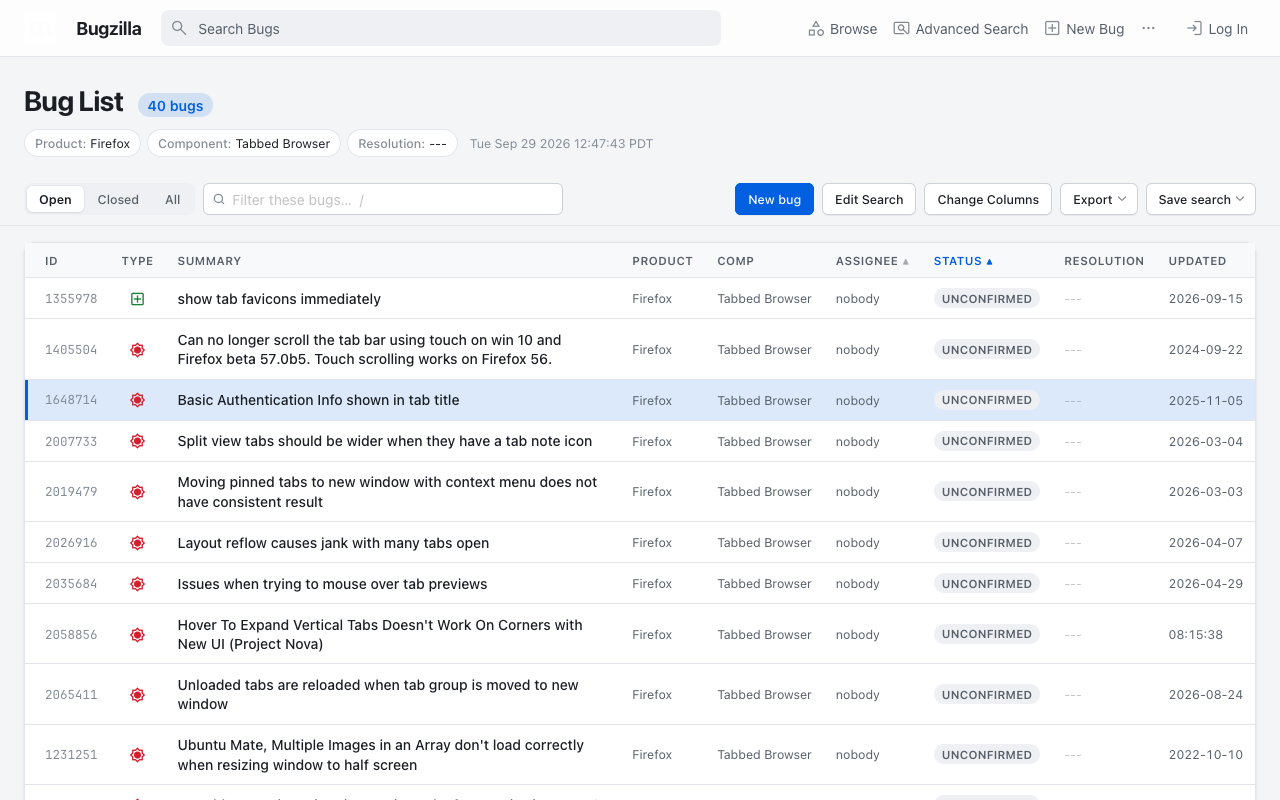
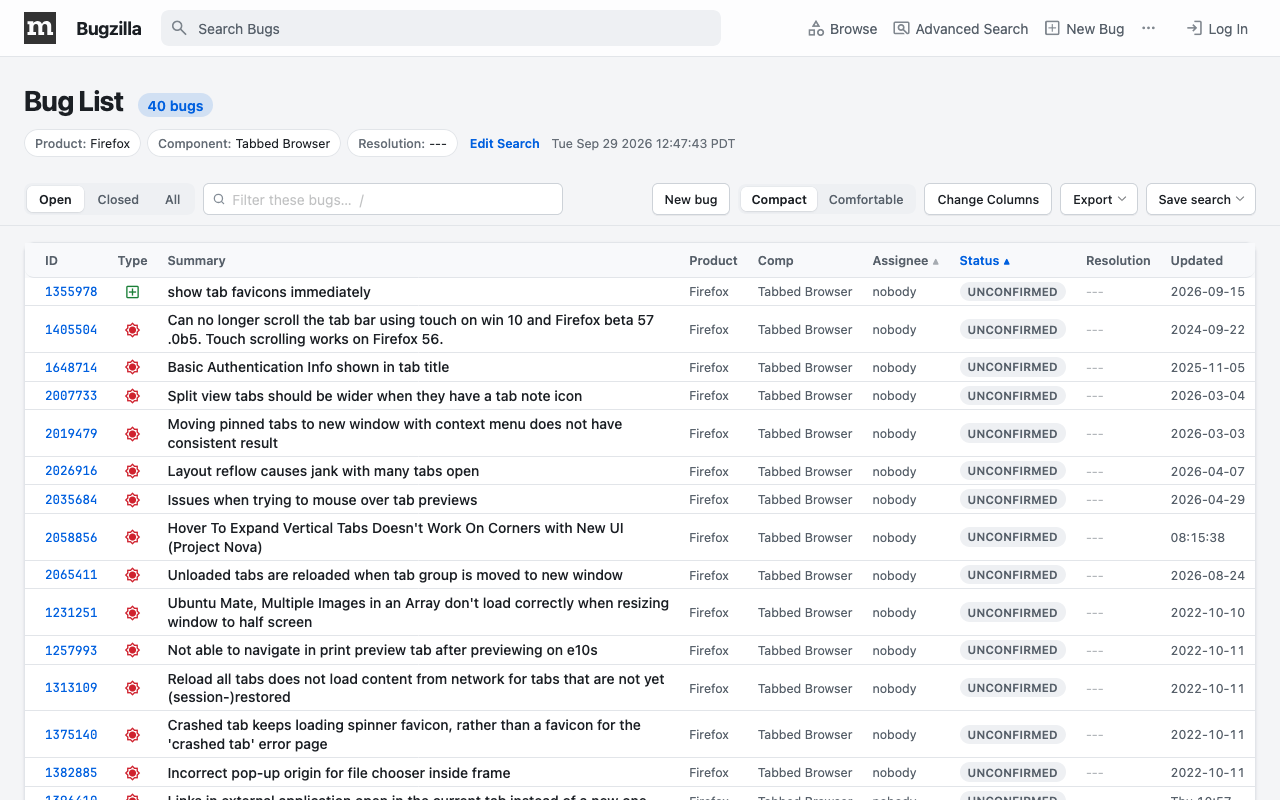
Rework the bug list around triage: density, shareable filter, bulk edit
Following the review's proposal for the people who live in bug lists:
- Edit Search sits with the search terms it changes.
- Compact/Comfortable row density, remembered in extension storage;
  compact fits about 40% more bugs on screen.
- The filter is kept in the URL (#pb-filter=...), so a filtered list can
  be reloaded or shared; it's debounced for very long lists.
- S1 and S2 rows get a severity stripe.
- Change Several Bugs mode gets a sticky selection bar (count, how many
  are hidden by the filter, Select visible, Clear, Edit selected), shift-
  click ranges and x to toggle the focused row.

tools/extras/buglist-tweak.js mocks tweak mode from BMO's templates and
is covered by npm test.

diff --git a/content/layouts/buglist.js b/content/layouts/buglist.js
@@ -23,7 +23,7 @@
 
   function buildHeader(main, table, changes) {
     const head = $(".bz_query_head", main);
-    const resultCount = $(":scope > span.bz_result_count", main);
+    const resultCount = $("span.bz_result_count", main);
     // Without an explicit limit BMO caps results (500) and offers the only link to the rest here.
     const seeAll = resultCount?.querySelector('a[href*="limit=0"]');
     const count = resultCount?.textContent.match(/\d[\d,]*/)?.[0];
@@ -45,8 +45,14 @@
         h("a", { href: seeAll.href, text: "Show all results" })));
     }
 
+    // The search terms and the link to change them belong together.
     const description = $("ul.search_description", main);
     if (description?.children.length) changes.move(description, meta);
+    const edit = $("#edit-search", main);
+    if (edit) {
+      changes.move(edit, meta);
+      changes.addClass(edit, "pb-buglist-edit");
+    }
     const timestamp = $(".bz_query_timestamp", head ?? main);
     if (timestamp) changes.move(timestamp, meta);
     const quip = $(".bz_quip", head ?? main);
@@ -81,7 +87,6 @@
     }
 
     const links = $("td.bz_query_links", main);
-    const edit = $("#edit-search", main);
     const columns = links && $$('a[href*="colchange.cgi"]', links)[0];
     const several = $("#change-several", main);
     const newBug = $("p.bz_query_single_product a", main);
@@ -90,10 +95,10 @@
       end.append(h("a", { class: "pb-tool", href: newBug.href, text: "New bug", title: newBug.textContent.trim() }));
       changes.addClass(newBug.parentElement, "pb-hidden");
     }
-    if (edit) changes.move(edit, end);
+    if (table) end.append(densityToggle(table, changes));
     if (columns) changes.move(columns, end);
     if (several) changes.move(several, end);
-    for (const link of [edit, columns, several]) {
+    for (const link of [columns, several]) {
       if (link) changes.addClass(link, "pb-tool");
     }
 
@@ -145,13 +150,40 @@
     return filterInput;
   }
 
+  // Compact rows fit ~40% more bugs on screen; the choice is remembered across lists.
+  function densityToggle(table, changes) {
+    const group = h("div", { class: "pb-density", role: "group", "aria-label": "Row density" });
+    const buttons = ["compact", "comfortable"].map((value) => {
+      const button = h("button", { type: "button", class: "pb-density-option", "aria-pressed": "false", text: value === "compact" ? "Compact" : "Comfortable" });
+      button.addEventListener("click", () => {
+        set(value);
+        browser.storage.local.set({ buglistDensity: value });
+      });
+      group.append(button);
+      return [value, button];
+    });
+    const set = (value) => {
+      table.setAttribute("data-pb-density", value);
+      for (const [option, button] of buttons) button.setAttribute("aria-pressed", String(option === value));
+    };
+    changes.attr(table, "data-pb-density", "compact");
+    set("compact");
+    browser.storage.local.get({ buglistDensity: "compact" }).then(({ buglistDensity }) => {
+      if (group.isConnected) set(buglistDensity);
+    }, () => {});
+    return group;
+  }
+
   // Cells show abbreviations ("UNCO") or only icons (bug type); the full words live in title/aria-label.
   function searchText(row) {
     const labels = $$("[title], [aria-label]", row).map((node) => `${node.title} ${node.getAttribute("aria-label") ?? ""}`);
     return `${row.textContent} ${labels.join(" ")}`.replace(/\s+/g, " ").toLowerCase();
   }
 
-  function wireFilter(table, input, changes) {
+  // The filter is kept in the URL (#pb-filter=…) so a filtered list can be shared or reloaded.
+  const HASH = "pb-filter=";
+
+  function wireFilter(table, input, onApply, changes) {
     const rows = $$("tbody tr.bz_bugitem", table);
     const texts = new Map(rows.map((row) => [row, searchText(row)]));
     const counter = input.nextElementSibling;
@@ -173,18 +205,43 @@
       const hidden = form ? hiddenChecked() : 0;
       counter.textContent = [terms.length ? `${shown} of ${rows.length}` : "", hidden ? `${hidden} checked hidden` : ""].filter(Boolean).join(" · ");
       empty.hidden = !(terms.length > 0 && shown === 0);
+      onApply();
     };
 
-    let frame = 0;
+    const originalHash = location.hash;
+    // An absolute URL: relative ones resolve against <base>, which needn't be this origin.
+    const setHash = (hash) => {
+      const url = new URL(location.href);
+      url.hash = hash;
+      if (url.href !== location.href) history.replaceState(history.state, "", url.href);
+    };
+    const saveHash = () => {
+      const value = input.value.trim();
+      setHash(value ? `${HASH}${encodeURIComponent(value)}` : originalHash.startsWith(`#${HASH}`) ? "" : originalHash);
+    };
+    if (originalHash.startsWith(`#${HASH}`)) {
+      try {
+        input.value = decodeURIComponent(originalHash.slice(HASH.length + 1));
+      } catch {
+        // Malformed; start unfiltered.
+      }
+    }
+
+    // Debounced: on lists of thousands of rows, filtering on every keystroke would lag typing.
+    let timer = 0;
     changes.listen(input, "input", () => {
-      cancelAnimationFrame(frame);
-      frame = requestAnimationFrame(apply);
+      clearTimeout(timer);
+      timer = setTimeout(() => {
+        apply();
+        saveHash();
+      }, rows.length > 500 ? 120 : 30);
     });
     changes.listen(input, "keydown", (event) => {
       if (event.key === "Enter") event.preventDefault();
       if (event.key === "Escape") {
         input.value = "";
         apply();
+        saveHash();
         input.blur();
       }
     });
@@ -198,9 +255,75 @@
       });
     }
     changes.defer(() => {
-      cancelAnimationFrame(frame);
+      clearTimeout(timer);
       for (const row of rows) row.hidden = false;
+      setHash(originalHash);
     });
+    if (input.value) apply();
+  }
+
+  // "Change Several Bugs": a sticky bar with the selection count (and how many the filter hides),
+  // Select visible / Clear, a jump to BMO's edit form, shift-click ranges and x to toggle a row.
+  function wireTweak(table, changes) {
+    const form = table.closest("form[name=changeform]");
+    const boxes = $$('tbody tr.bz_bugitem input[type=checkbox][name^="id_"]', table);
+    if (!form || !boxes.length) return () => {};
+
+    const status = h("span", { class: "pb-tweak-status", "aria-live": "polite" });
+    const setAll = (checked) => {
+      for (const box of boxes) {
+        if (!box.closest("tr").hidden) box.checked = checked;
+      }
+      update();
+    };
+    const editForm = form.querySelector("#form") ?? form.querySelector("#commit");
+    const bar = h("div", { class: "pb-tweak-bar", role: "group", "aria-label": "Selected bugs" },
+      status,
+      h("button", { type: "button", class: "secondary", text: "Select visible", onclick: () => setAll(true) }),
+      h("button", { type: "button", class: "secondary", text: "Clear", onclick: () => setAll(false) }),
+      editForm ? h("button", { type: "button", class: "primary", text: "Edit selected ↓", onclick: () => {
+        editForm.scrollIntoView({ block: "start" });
+        editForm.querySelector("select, input:not([type=hidden]), textarea")?.focus({ preventScroll: true });
+      } }) : null);
+    changes.insert(bar, table.parentNode, table.nextSibling);
+
+    function update() {
+      const checked = boxes.filter((box) => box.checked);
+      const hidden = checked.filter((box) => box.closest("tr").hidden).length;
+      status.textContent = `${checked.length} selected${hidden ? ` (${hidden} hidden by the filter)` : ""}`;
+      bar.dataset.empty = String(checked.length === 0);
+    }
+
+    let last = null;
+    changes.listen(table, "click", (event) => {
+      const box = event.target.closest?.('input[type=checkbox][name^="id_"]');
+      if (!box) return;
+      if (event.shiftKey && last && last !== box) {
+        const [from, to] = [boxes.indexOf(last), boxes.indexOf(box)].sort((a, b) => a - b);
+        for (const other of boxes.slice(from, to + 1)) {
+          if (!other.closest("tr").hidden) other.checked = box.checked;
+        }
+      }
+      last = box;
+      update();
+    });
+    changes.listen(form, "change", update);
+    // BMO's Check All / Uncheck All set .checked without events.
+    changes.listen(form, "click", (event) => {
+      if (event.target.matches?.("#check_all, #uncheck_all")) setTimeout(update);
+    });
+    changes.listen(document, "keydown", (event) => {
+      if (event.key !== "x" || event.metaKey || event.ctrlKey || event.altKey || isTyping(event.target)) return;
+      const row = document.activeElement?.closest?.("tr.bz_bugitem");
+      const box = row && $('input[type=checkbox][name^="id_"]', row);
+      if (!box) return;
+      event.preventDefault();
+      box.checked = !box.checked;
+      last = box;
+      update();
+    });
+    update();
+    return update;
   }
 
   // j/k move real focus to each row's summary link, so Enter, screen readers and the focus ring all
@@ -264,15 +387,17 @@
 
       const hero = buildHeader(main, table, changes);
       const input = buildToolbar(main, hero, table, changes);
-      for (const node of $$(":scope > hr, :scope > span.bz_result_count, :scope > br", main)) {
+      for (const node of $$(":scope > hr, span.bz_result_count, :scope > br", main)) {
         changes.addClass(node, "pb-hidden");
       }
 
       if (table) {
-        if (input) wireFilter(table, input, changes);
-        wireKeyboard(table, input, changes);
-        const hint = h("p", { class: "pb-buglist-hint" }, h("kbd", { text: "j" }), " ", h("kbd", { text: "k" }), " move · ", h("kbd", { text: "Enter" }), " open · ", h("kbd", { text: "O" }), " new tab · ", h("kbd", { text: "/" }), " filter");
+        const hint = h("p", { class: "pb-buglist-hint" }, h("kbd", { text: "j" }), " ", h("kbd", { text: "k" }), " move · ", h("kbd", { text: "Enter" }), " open · ", h("kbd", { text: "Shift" }), "+", h("kbd", { text: "O" }), " new tab · ", h("kbd", { text: "/" }), " filter");
         changes.insert(hint, table.parentNode, table.nextSibling);
+        const onFilter = wireTweak(table, changes);
+        if ($('input[name^="id_"]', table)) hint.append(" · ", h("kbd", { text: "x" }), " select");
+        if (input) wireFilter(table, input, onFilter, changes);
+        wireKeyboard(table, input, changes);
       }
       buildEmptyState(main, changes);
     },

diff --git a/content/layouts/buglist.css b/content/layouts/buglist.css
@@ -87,6 +87,11 @@
   font-weight: 500;
 }
 
+.pb-on.pb-layout .pb-buglist-meta a.pb-buglist-edit {
+  font-size: var(--font-size-small);
+  font-weight: 600;
+}
+
 .pb-on.pb-layout .pb-buglist-meta .bz_query_timestamp {
   color: var(--pb-text-3);
   font-size: var(--font-size-small);
@@ -320,6 +325,61 @@
   font-size: var(--font-size-medium);
 }
 
+/* Density toggle */
+
+.pb-on.pb-layout .pb-density {
+  display: inline-flex;
+  gap: 2px;
+  border-radius: 8px;
+  padding: 3px;
+  background-color: var(--pb-surface-3);
+}
+
+.pb-on.pb-layout button.pb-density-option {
+  border: 0;
+  border-radius: 6px;
+  padding: 3px 10px !important;
+  color: var(--pb-text-2);
+  background: transparent;
+  box-shadow: none;
+  font-size: var(--font-size-small);
+}
+
+.pb-on.pb-layout button.pb-density-option[aria-pressed="true"] {
+  color: var(--pb-text);
+  background-color: var(--pb-surface);
+  box-shadow: 0 1px 2px var(--pb-shadow-color), 0 0 0 1px var(--pb-border);
+  font-weight: 600;
+}
+
+/* Change Several Bugs: selection bar */
+
+.pb-on.pb-layout .pb-tweak-bar {
+  display: flex;
+  align-items: center;
+  flex-wrap: wrap;
+  gap: 8px 12px;
+  position: sticky;
+  bottom: 12px;
+  z-index: 20;
+  margin: 12px 0;
+  border: 1px solid var(--pb-border);
+  border-radius: 12px;
+  padding: 8px 12px 8px 16px;
+  background-color: var(--pb-surface);
+  box-shadow: var(--pb-shadow-lg);
+}
+
+.pb-on.pb-layout .pb-tweak-status {
+  margin-right: auto;
+  color: var(--pb-text);
+  font-weight: 600;
+}
+
+.pb-on.pb-layout .pb-tweak-bar[data-empty="true"] .primary {
+  display: none;
+}
+
 /* Table */
 
 .pb-on.pb-layout .pb-buglist table.bz_buglist {
@@ -376,10 +436,24 @@
 
 .pb-on.pb-layout .pb-buglist table.bz_buglist tbody td {
   border-bottom: 1px solid var(--pb-border);
-  padding: 7px 10px;
+  padding: 9px 10px;
   color: var(--pb-text-2);
   font-size: var(--font-size-small);
   vertical-align: middle;
+}
+
+.pb-on.pb-layout .pb-buglist table.bz_buglist[data-pb-density="compact"] tbody td {
+  padding-block: 4px;
+  line-height: 1.35;
+}
+
+/* Severity at a glance: a stripe on S1 and S2 rows. */
+.pb-on.pb-layout .pb-buglist table.bz_buglist tbody tr.bz_S1 > td:first-child {
+  box-shadow: inset 3px 0 0 var(--pb-danger);
+}
+
+.pb-on.pb-layout .pb-buglist table.bz_buglist tbody tr.bz_S2 > td:first-child {
+  box-shadow: inset 3px 0 0 light-dark(#bc4c00, #f0883e);
 }
 
 /* Keep rows reached by j/k or Tab clear of the sticky site header, toolbar and table header. */

diff --git a/tools/extras/buglist-tweak.js b/tools/extras/buglist-tweak.js
@@ -1,0 +1,37 @@
+// Turns the buglist.html fixture into "Change Several Bugs at Once" (tweak) mode, following
+// BMO's list.html.tmpl, table.html.tmpl and edit-multiple.html.tmpl.
+(() => {
+  const table = document.querySelector("table.bz_buglist");
+  if (!table) return;
+  table.classList.remove("responsive");
+
+  const form = document.createElement("form");
+  form.name = "changeform";
+  form.method = "post";
+  form.action = "process_bug.cgi";
+  table.before(form);
+  form.append(table);
+
+  for (const row of table.querySelectorAll("thead tr")) {
+    row.insertAdjacentHTML("afterbegin", '<th class="first-child">&nbsp;</th>');
+  }
+  for (const row of table.querySelectorAll("tr.bz_bugitem")) {
+    const id = row.id.slice(1);
+    row.insertAdjacentHTML("afterbegin", `<td class="bz_checkbox_column"><input type="checkbox" name="id_${id}"></td>`);
+  }
+
+  form.insertAdjacentHTML("beforeend", `
+    <input type="hidden" name="dontchange" value="--do_not_change--">
+    <input type="button" id="uncheck_all" name="uncheck_all" value="Uncheck All">
+    <input type="button" id="check_all" name="check_all" value="Check All">
+    <hr>
+    <p style="font-size: var(--font-size-small);">To change multiple bugs:</p>
+    <table id="form"><tr><th><label for="priority">Priority:</label></th><td>
+      <select id="priority" name="priority"><option value="--do_not_change--">--do_not_change--</option><option>P1</option><option>P2</option></select>
+    </td></tr></table>
+    <textarea id="comment" name="comment" rows="5" cols="80"></textarea>
+    <input type="submit" id="commit" value="Commit">`);
+  document.getElementById("check_all").addEventListener("click", () => {
+    for (const box of form.querySelectorAll('input[name^="id_"]')) box.checked = true;
+  });
+})();

diff --git a/README.md b/README.md
@@ -19,7 +19,7 @@ A Firefox extension that gives [bugzilla.mozilla.org](https://bugzilla.mozilla.o
 | `show_bug.cgi` | A workspace: a sticky bar with status, summary and actions (plus a Comment shortcut), the fields in a right-hand rail, and the description, attachments and comments in the main column; history-only entries shrink to one line |
 | `enter_bug.cgi` | One page: essentials first (Summary, Category, Description, Attachment, Security), optional modules under "More fields", and a sticky rail with a section checklist, live summary and Submit |
 | `enter_bug.cgi` product chooser, `describecomponents.cgi` | Big search box, a grid of product cards you can click anywhere on |
-| `buglist.cgi` | Result count and search chips, sticky toolbar, instant row filter, Export/Save menus, `j`/`k`/`o`/`/` shortcuts |
+| `buglist.cgi` | Full-width list with an honest result count (and Show all when BMO capped it), search chips with Edit, a sticky toolbar with an instant filter kept in the URL, Compact/Comfortable rows, Export/Save menus, severity stripes, `j`/`k`/Enter/`Shift+O`/`/` shortcuts, and in Change Several Bugs mode a selection bar with shift-click ranges and `x` |
 | `query.cgi?format=advanced` | Grouped cards, filter boxes for long lists, "N active" badges, sticky search bar |
 | `query.cgi?format=specific` / `instant` | A search-engine style hero |
 | `request.cgi` | Collapsible filters, one card per group, relative ages, filter box and group jump |

diff --git a/store/listing.md b/store/listing.md
@@ -33,7 +33,7 @@ Pretty Bugz gives bugzilla.mozilla.org a clean, modern look and rebuilds its bus
 **Redesigned pages** (can be turned off separately)
 - **Bugs:** a sticky bar with the status, summary and actions, the fields in a side rail next to the comments, and one-line history entries
 - **File a bug:** the essentials on one page, optional fields tucked under "More fields", and a sticky checklist that shows what's still required next to the Submit button
-- **Bug lists:** result count and search terms up top, a sticky toolbar, instant row filtering, Export and Save menus, and j/k keyboard navigation
+- **Bug lists:** full-width results with compact rows, instant filtering you can share as a link, Export and Save menus, j/k keyboard navigation, and a selection bar for changing several bugs at once
 - **Advanced search:** grouped cards, filter boxes for long product and component lists, "N active" badges and a sticky search bar
 - **What needs my attention:** a triage dashboard with counts per list, priority tiers and collapsed empty lists
 - **Request queue, components, keywords, bug history, user profiles and help pages:** filterable cards, a timeline, stats tiles and tables of contents
